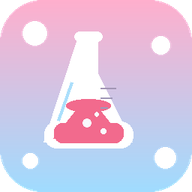
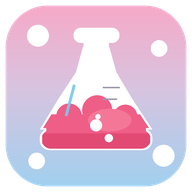
v3.0: 登录图案响应式缩放 + 透明底色图标

diff --git a/index.html b/index.html
@@ -154,11 +154,12 @@ textarea{resize:vertical;min-height:60px}
   z-index:300;font-size:14px;box-shadow:0 8px 24px rgba(0,0,0,.45);max-width:88vw}
 /* ---------- 登录 ---------- */
 .login-wrap{flex:1;display:flex;align-items:center;justify-content:center;padding:24px}
-.login-card{width:100%;max-width:360px;background:var(--panel);border:1px solid var(--line);
-  border-radius:20px;padding:28px 24px;text-align:center}
-.logo-big{width:72px;height:72px;border-radius:20px;background:var(--green);color:#1F2420;
-  font-size:34px;font-weight:800;display:flex;align-items:center;justify-content:center;
-  margin:0 auto 14px;box-shadow:0 6px 0 var(--green-dd)}
+.login-card{width:100%;max-width:clamp(300px,92vw,380px);background:var(--panel);border:1px solid var(--line);
+  border-radius:clamp(16px,5vmin,22px);padding:clamp(20px,5vmin,30px) clamp(18px,5vmin,26px);text-align:center}
+.logo-big{width:clamp(56px,19vmin,96px);height:clamp(56px,19vmin,96px);
+  border-radius:clamp(15px,5vmin,27px);background:var(--green);color:#1F2420;
+  font-size:clamp(26px,9vmin,46px);font-weight:800;display:flex;align-items:center;justify-content:center;
+  margin:0 auto 14px;box-shadow:0 clamp(4px,1.4vmin,7px) 0 var(--green-dd)}
 .login-card h1{font-size:20px;margin:6px 0 2px}
 .login-card .sub{color:var(--muted);font-size:12px;margin-bottom:20px}
 .login-card .err{color:var(--danger);font-size:13px;min-height:18px;margin-bottom:8px}
